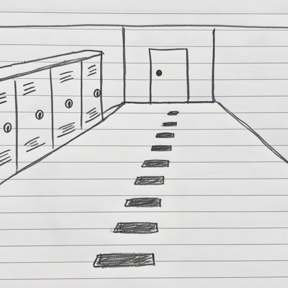
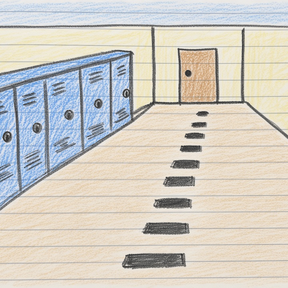
Soft PASS: color Demo shelf covers Queen + Spelling (#55)
Replace grayscale shelf thumbnails with Soft PASS color PNGs (SHA16
c32921087df2c6ed and f599a710ebb66e03). Bump shelf cache-bust query
strings and hub app.js to v=74. School and Picnic shelf assets unchanged.

diff --git a/app.js b/app.js
@@ -238,7 +238,7 @@ const DEMOS = [
     blurb: "",
     kind: "play",
     playPath: "play/queen-team-up/?v=7",
-    shelfCover: "10_game_assets/demo/queen-team-up.png?v=25",
+    shelfCover: "10_game_assets/demo/queen-team-up.png?v=26",
     iframeTitle: "Queen Team-Up",
   },
   {
@@ -249,7 +249,7 @@ const DEMOS = [
     blurb: "",
     kind: "play",
     playPath: "play/spelling-vs-lennon/?v=4",
-    shelfCover: "10_game_assets/demo/spelling-vs-lennon.png?v=26",
+    shelfCover: "10_game_assets/demo/spelling-vs-lennon.png?v=27",
     iframeTitle: "Spelling vs Lennon",
   },
 ];

diff --git a/index.html b/index.html
@@ -117,7 +117,7 @@
     </div>
   </main>
 
-  <script src="app.js?v=73"></script>
+  <script src="app.js?v=74"></script>
   <script>
     (function () {
       var frame = document.getElementById("demo-iframe");
